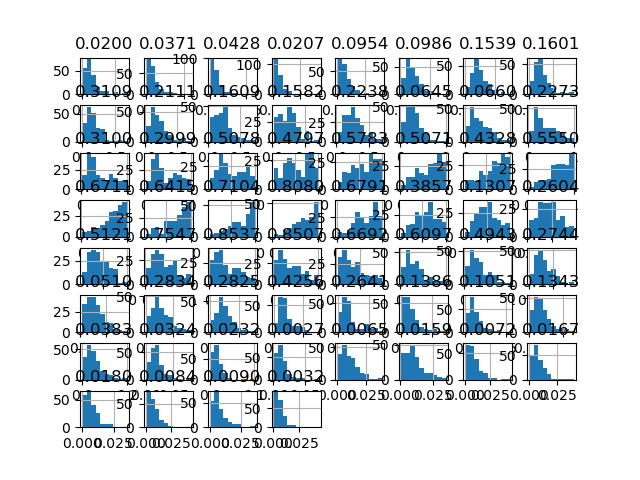
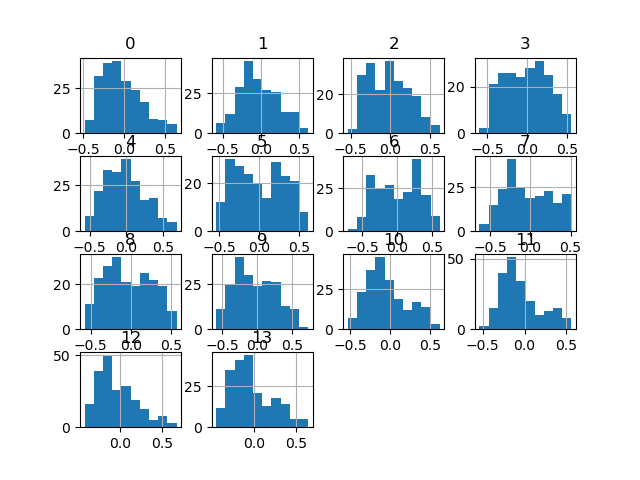
Added first data preprocessing studies.

diff --git a/src/scripts/data_processing.py b/src/scripts/data_processing.py
@@ -9,26 +9,183 @@ Author: Gianluca Bianco
 #     Libraries
 #################################################
 
-# STD modules
+# Generic modules
+import sys
+from emoji import emojize
+from termcolor import colored as cl
+
+# Data analysis
 import pandas as pd
 import matplotlib.pyplot as plt
-import sys
+import numpy as np
+from sklearn.preprocessing import StandardScaler, Normalizer
+from sklearn.feature_selection import SelectKBest, chi2
 
 # Personal modules
 sys.path.append( ".." )
 from utils.generic import save_img
 
 #################################################
+#     apply_operation
+#################################################
+def apply_operation( operation, data ):
+    """
+    Function used to apply a specific "operation" to the dataset "data" (ex. Normalizer, Standard Scaler etc...).
+
+    Args:
+        operation (sklearn.preprocessing): a specific operation to be applied.
+        data (pandas.DataFrame): the dataset to which the operation is applied.
+
+    Returns:
+        pandas.DataFrame: the modified dataset.
+    """
+    
+    nolabel_data = data.iloc[: , :-1]
+    label = data[ "60" ]
+    scaled_data = operation.fit_transform( nolabel_data )
+    scaled_data_df = pd.DataFrame( scaled_data, index = data.index, columns = data.columns[ 0: -1 ] )
+    data = scaled_data_df.join( label )
+    
+    return data
+
+#################################################
+#     feature_selection
+#################################################
+def feature_selection( data, print_steps = False ):
+
+    # Variables
+    label = data[ "60" ]
+    n_of_features = 14 
+    array = data.values
+    X = array[ :, 0:60 ]
+    Y = array[ :, 60 ]
+
+    # Tests
+    if print_steps == True:
+        test = SelectKBest(score_func=chi2, k=3)
+        fit = test.fit(X, Y)
+        print( end = "\n\n" )
+        print(fit.scores_)
+    
+    # Feature selection
+    X_new = SelectKBest( score_func = chi2, k = n_of_features ).fit_transform( X, Y ) # TODO: change k
+    X_new_df = pd.DataFrame( X_new, index = data.index, columns = range( n_of_features ) )
+    data = X_new_df.join( label )
+    
+    return data
+
+#################################################
+#     process_dataset
+#################################################
+def process_dataset( print_steps = False ):
+    """
+    Function used to load and preprocess the dataset.
+
+    Returns:
+        pandas.DataFrame: the modified and loaded dataset.
+        bool: Choose if printing debugging steps or not. Default False.
+    """
+
+    # Loading the dataset
+    print( "- Loading the dataset ", end = "" )
+    names = [ str( name ) for name in range( 0, 61 ) ]
+    data = pd.read_csv( "../../data/sonar.all-data.csv", names = names )
+    print( emojize( ":check_mark_button:" ) )
+    if print_steps == True:
+        print( data )
+        
+    # Feature selection
+    print( "- Performing feature selection ", end = "" )
+    data = feature_selection( data, print_steps = print_steps )
+    print( emojize( ":check_mark_button:" ) )
+    if print_steps == True:
+        print( data )
+    
+    # Standardizing the data
+    print( "- Standardizing the dataset ", end = "" )
+    data = apply_operation( StandardScaler(), data )
+    print( emojize( ":check_mark_button:" ) )
+    if print_steps == True:
+        print( data )
+
+    # Normalizing the data
+    print( "- Normalizing the dataset ", end = "" )
+    data = apply_operation( Normalizer(), data )
+    print( emojize( ":check_mark_button:" ) )
+    if print_steps == True:
+        print( data )
+    
+    return data
+
+#################################################
+#     utility_plots
+#################################################
+def utility_plots( data ):
+    """
+    Function used to plot utility features of the "data" dataset. In particular: histograms, density plots, box plots, correlations plot and scatter matrix.
+
+    Args:
+        data (pandas.DataFrame): the dataset which features plots are required.
+    """
+
+    # Variables and constants
+    utility_path = "../../img/utility"
+    dimension = ( 4, 4 )
+    
+    # Histograms
+    print( "- Printing histograms of each column ", end = "" )
+    data.hist()
+    plt.rcParams[ "figure.figsize" ] = [ 16, 16 ]
+    save_img( "histograms", utility_path )
+    print( emojize( ":check_mark_button:" ) )
+    
+    # Density plots
+    print( "- Printing density plots ", end = "" )
+    data.plot( kind = "density", subplots = True, layout = dimension, sharex = False )
+    save_img( "density", utility_path )
+    print( emojize( ":check_mark_button:" ) )
+    
+    # Box plots
+    print( "- Printing box plots ", end = "" )
+    data.plot( kind = "box", subplots = True, layout = dimension, sharex = False, sharey = False )
+    save_img( "box", utility_path )
+    print( emojize( ":check_mark_button:" ) )
+    
+    # Correlations
+    print( "- Printing correlations plot ", end = "" )
+    correlations = data.corr()
+    fig = plt.figure()
+    ax = fig.add_subplot( 111 )
+    cax = ax.matshow( correlations, vmin = -1, vmax = 1 )
+    fig.colorbar( cax )
+    ticks = np.arange( 0, 14, 1 )
+    ax.set_xticks( ticks )
+    ax.set_yticks( ticks )
+    names = [ str( name ) for name in range( 0, 14 ) ]
+    ax.set_xticklabels( names )
+    ax.set_yticklabels( names )
+    save_img( "correlation", utility_path )
+    print( emojize( ":check_mark_button:" ) )
+    
+    # Scatter matrix
+    print( "- Printing scatter matrix ", end = "" )
+    pd.plotting.scatter_matrix( data )
+    save_img( "scatter_matrix", utility_path )
+    print( emojize( ":check_mark_button:" ) )
+
+#################################################
 #     Main
 #################################################
 def main():
-    data = pd.read_csv( "../../data/sonar.all-data.csv" )
-    #print( dataset )
     
-    # Printing histograms of each column
-    data.hist()
-    plt.rcParams[ "figure.figsize" ] = [ 16, 16 ]
-    save_img( "histograms", "../../img/utility" )
+    # Processing the dataset
+    print( cl( "Dataset operations:", "green" ) )
+    data = process_dataset( print_steps = False )
+    print()
+    
+    # Printing utility plots
+    print( cl( "Plotting utils:", "green" ) )
+    utility_plots( data )
 
 if __name__ == "__main__":
     main()

diff --git a/README.md b/README.md
@@ -1,7 +1,5 @@
-# the-sonar-project
+# The Sonar Project
 
-Application of a Machine Learning classification algorithm to the Sonar dataset. Project for the course "Applied Machine Learning (Basic)" at PhD in Physics.
+Application of a machine learning classification algorithm to the Sonar dataset. Project for the course "Applied Machine Learning (Basic)" at PhD in Physics.
 
-Sonar dataset can be download from here: https://www.kaggle.com/datasets/ypzhangsam/sonaralldata
-
-Scaling non necessario
+## Table of contents
